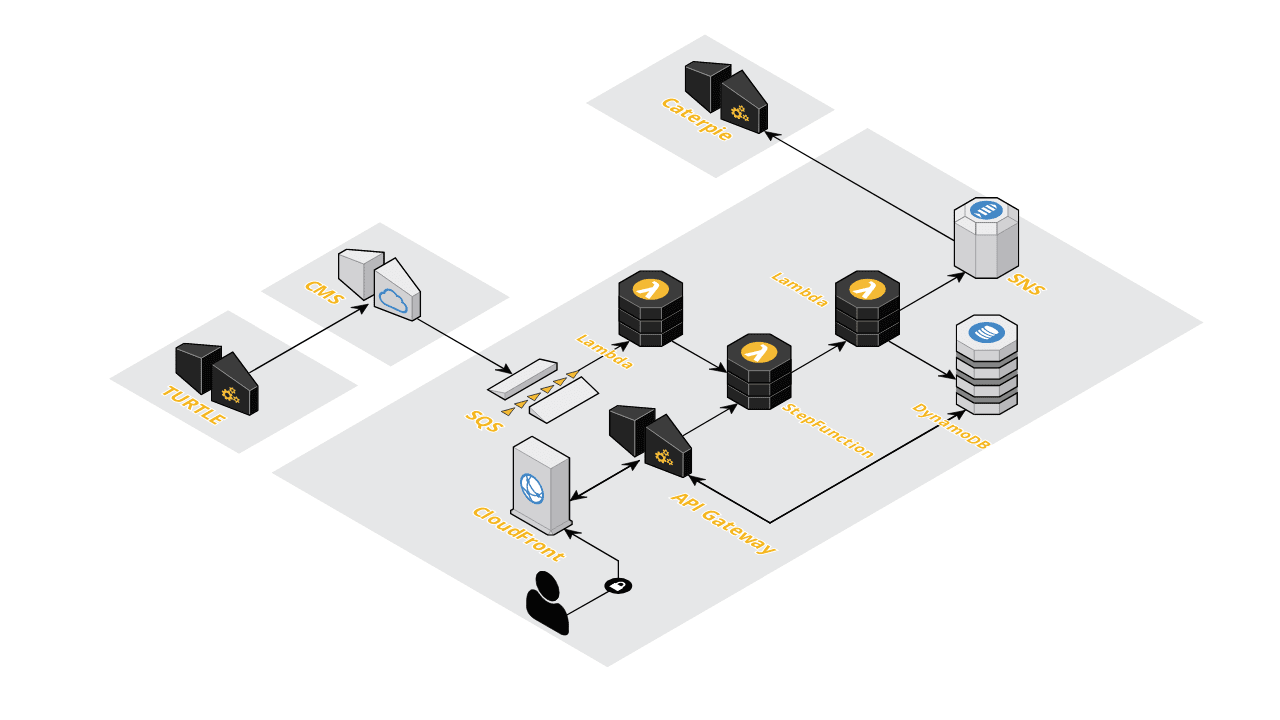
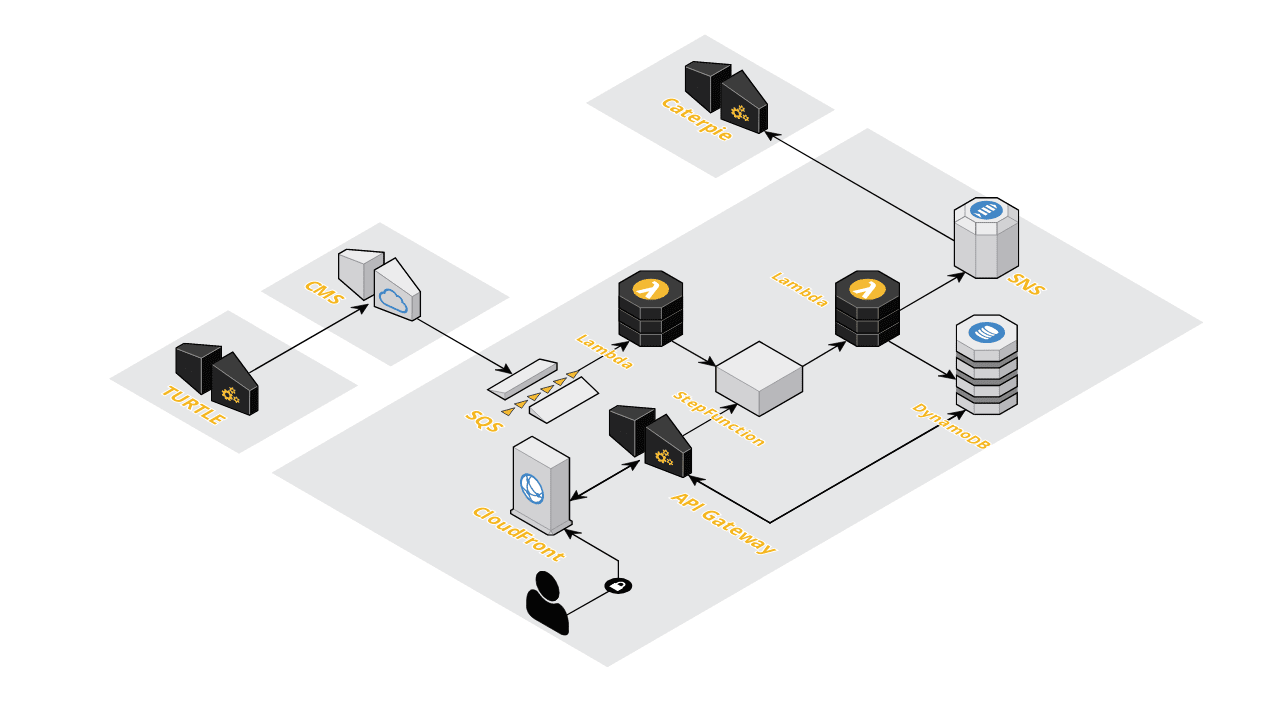
refact: Change aws connect method to get profile

Changed region(s): [[0.5312, 0.4583, 0.625, 0.6111], [0.6562, 0.6111, 0.6875, 0.6417], [0.625, 0.5806, 0.6562, 0.6111]]

diff --git a/src/FTS.Precatorio.Infrastructure/IoC/IoCInfra.cs b/src/FTS.Precatorio.Infrastructure/IoC/IoCInfra.cs
@@ -1,9 +1,6 @@
-using Amazon;
 using Amazon.DynamoDBv2;
-using Amazon.Runtime;
 using Amazon.SQS;
 using FTS.Precatorio.Domain.Trade.Repository;
-using FTS.Precatorio.Infrastructure.Amazon;
 using Microsoft.AspNetCore.Http;
 using Microsoft.Extensions.Configuration;
 using Microsoft.Extensions.DependencyInjection;
@@ -11,11 +8,11 @@ using FTS.Precatorio.Infrastructure.Database.DynamoDB.Repository;
 using FTS.Precatorio.Infrastructure.Database.DynamoDB.Context;
 using FTS.Precatorio.Infrastructure.User;
 using FTS.Precatorio.Domain.Interfaces;
-using FTS.Precatorio.Domain.SQS;
 using FTS.Precatorio.Domain.Trade.Services;
 using FTS.Precatorio.Domain.Notifications;
-using FTS.Precatorio.Domain.SNS;
 using Amazon.SimpleNotificationService;
+using Amazon.StepFunctions;
+using FTS.Precatorio.Domain.Amazon;
 
 namespace FTS.Precatorio.Infrastructure.IoC
 {
@@ -27,53 +24,29 @@ namespace FTS.Precatorio.Infrastructure.IoC
             services.AddSingleton<IUserToken, UserResolverService>();
             services.AddSingleton<IConfiguration>(configuration);
 
-            services.AddTransient<TradeService>();
-
             services.AddScoped<IDomainNotification, DomainNotification>();
 
+            services.AddTransient<TradeService>();
+
             RegisterAmazonServices(services, configuration);
-            RegisterServicesDynamoDb(services);
+            RegisterRespositories(services);
         }
 
-        private static void RegisterServicesDynamoDb(IServiceCollection services)
+        private static void RegisterRespositories(IServiceCollection services)
         {
             services.AddScoped<ITradeRepository, TradeRepository>();
         }
 
         private static void RegisterAmazonServices(IServiceCollection services, IConfiguration configuration)
         {
-            var amazon = new AmazonConfiguration();
-            configuration.GetSection("AmazonWS").Bind(amazon);
+            services.AddScoped<FTSPrecatorioContext>();
 
-            services.AddScoped<FTSPrecatorioContext>(sp =>
-            {
-                var region = amazon.DynamoDB?.Region ?? amazon.Region;
-                var bucketRegion = RegionEndpoint.GetBySystemName(region);
-                var autenticacao = new BasicAWSCredentials(amazon.AcessKey, amazon.SecretKey);
-                var sqsClient = new AmazonDynamoDBClient(autenticacao, bucketRegion);
+            services.AddAWSService<IAmazonDynamoDB>();
+            services.AddAWSService<IAmazonSimpleNotificationService>();
+            services.AddAWSService<IAmazonSQS>();
+            services.AddAWSService<IAmazonStepFunctions>();
 
-                return new FTSPrecatorioContext(sqsClient);
-            });
-
-            services.AddScoped<ISQS, SQS>(sp =>
-            {
-                var region = amazon.SQS?.Region ?? amazon.Region;
-                var bucketRegion = RegionEndpoint.GetBySystemName(region);
-                var autenticacao = new BasicAWSCredentials(amazon.AcessKey, amazon.SecretKey);
-                var sqsClient = new AmazonSQSClient(autenticacao, bucketRegion);
-
-                return new SQS(sqsClient);
-            });
-
-            services.AddScoped<ISNS, SNS>(sp =>
-            {
-                var region = amazon.SNS?.Region ?? amazon.Region;
-                var bucketRegion = RegionEndpoint.GetBySystemName(region);
-                var autenticacao = new BasicAWSCredentials(amazon.AcessKey, amazon.SecretKey);
-                var snsClient = new AmazonSimpleNotificationServiceClient(autenticacao, bucketRegion);
-
-                return new SNS(snsClient);
-            });
+            services.AddTransient<AmazonService>();
         }
     }
 }

diff --git a/src/FTS.Precatorio.Domain/Amazon/AmazonService.cs b/src/FTS.Precatorio.Domain/Amazon/AmazonService.cs
@@ -1,0 +1,74 @@
+using Amazon.SimpleNotificationService;
+using Amazon.SimpleNotificationService.Model;
+using Amazon.SQS;
+using Amazon.SQS.Model;
+using Amazon.StepFunctions;
+using Amazon.StepFunctions.Model;
+using Microsoft.Extensions.Configuration;
+
+namespace FTS.Precatorio.Domain.Amazon
+{
+    public class AmazonService
+    {
+        private readonly IAmazonStepFunctions _sfClient;
+        private readonly IAmazonSimpleNotificationService _snsClient;
+        private readonly IAmazonSQS _sqsClient;
+        private readonly IConfiguration _configuration;
+
+        public AmazonService(IAmazonStepFunctions sfClient, IAmazonSimpleNotificationService snsClient,
+            IAmazonSQS sqsClient, IConfiguration configuration)
+        {
+            _sfClient = sfClient;
+            _snsClient = snsClient;
+            _sqsClient = sqsClient;
+            _configuration = configuration;
+        }
+
+        public string GetKeyValue(string key)
+        {
+            return _configuration.GetValue<string>(key);
+        }
+
+        public void SendMessageToSQS(string queueName, string messageBody)
+        {
+            var sqsRequest = new CreateQueueRequest { QueueName = queueName };
+            var createQueueResponse = _sqsClient.CreateQueueAsync(sqsRequest);
+            var myQueueUrl = createQueueResponse.Result.QueueUrl;
+
+            var sendMessageRequest = new SendMessageRequest
+            {
+                QueueUrl = myQueueUrl,
+                MessageBody = messageBody
+            };
+
+            _sqsClient.SendMessageAsync(sendMessageRequest).Wait();
+        }
+
+        public void SendMessageToSNS(string topic, string messageBody)
+        {
+            var snsRequest = new CreateTopicRequest { Name = topic };
+            var createQueueResponse = _snsClient.CreateTopicAsync(snsRequest);
+            var topicArn = createQueueResponse.Result.TopicArn;
+
+            var sendMessageRequest = new PublishRequest
+            {
+                TopicArn = topicArn,
+                Message = messageBody
+            };
+
+            _snsClient.PublishAsync(sendMessageRequest).Wait();
+        }
+
+        public void SendMessageToStepFunction(string topic, string messageBody)
+        {
+            var sendMessageRequest = new StartExecutionRequest
+            {
+                Input = messageBody,
+                Name = "SchedulingEngine",
+                StateMachineArn = "arn:aws:states:us-west-2:<SomeNumber>:stateMachine:SchedulingEngine"
+            };
+
+            _sfClient.StartExecutionAsync(sendMessageRequest).Wait();
+        }
+    }
+}

diff --git a/src/FTS.Precatorio.Infrastructure/Database/DynamoDB/Repository/TradeRepository.cs b/src/FTS.Precatorio.Infrastructure/Database/DynamoDB/Repository/TradeRepository.cs
@@ -1,4 +1,4 @@
-using FTS.Precatorio.Domain.SQS;
+using FTS.Precatorio.Domain.Amazon;
 using FTS.Precatorio.Domain.Trade;
 using FTS.Precatorio.Domain.Trade.Repository;
 using FTS.Precatorio.Infrastructure.Database.DynamoDB.Context;
@@ -10,20 +10,20 @@ namespace FTS.Precatorio.Infrastructure.Database.DynamoDB.Repository
     {
         private FTSPrecatorioContext _context;
         private readonly IConfiguration _configuration;
-        private readonly ISQS _sqs;
+        private readonly AmazonService _amazonService;
 
-        public TradeRepository(ISQS sqs, IConfiguration configuration, FTSPrecatorioContext context) : base(context)
+        public TradeRepository(AmazonService amazonService, IConfiguration configuration, FTSPrecatorioContext context) : base(context)
         {
-            _sqs = sqs;
+            _amazonService = amazonService;
             _configuration = configuration;
             _context = context;
         }
 
         public void SendMessage(string message)
         {
-            var queueName = _configuration.GetValue<string>("AmazonWS:SQS:Queues:QueueTrade");
+            var queueName = _amazonService.GetKeyValue("AWS:SQS:Queues:QueueTrade");
 
-            _sqs.SendMessage(queueName, message);
+            _amazonService.SendMessageToSQS(queueName, message);
         }
     }
 }
